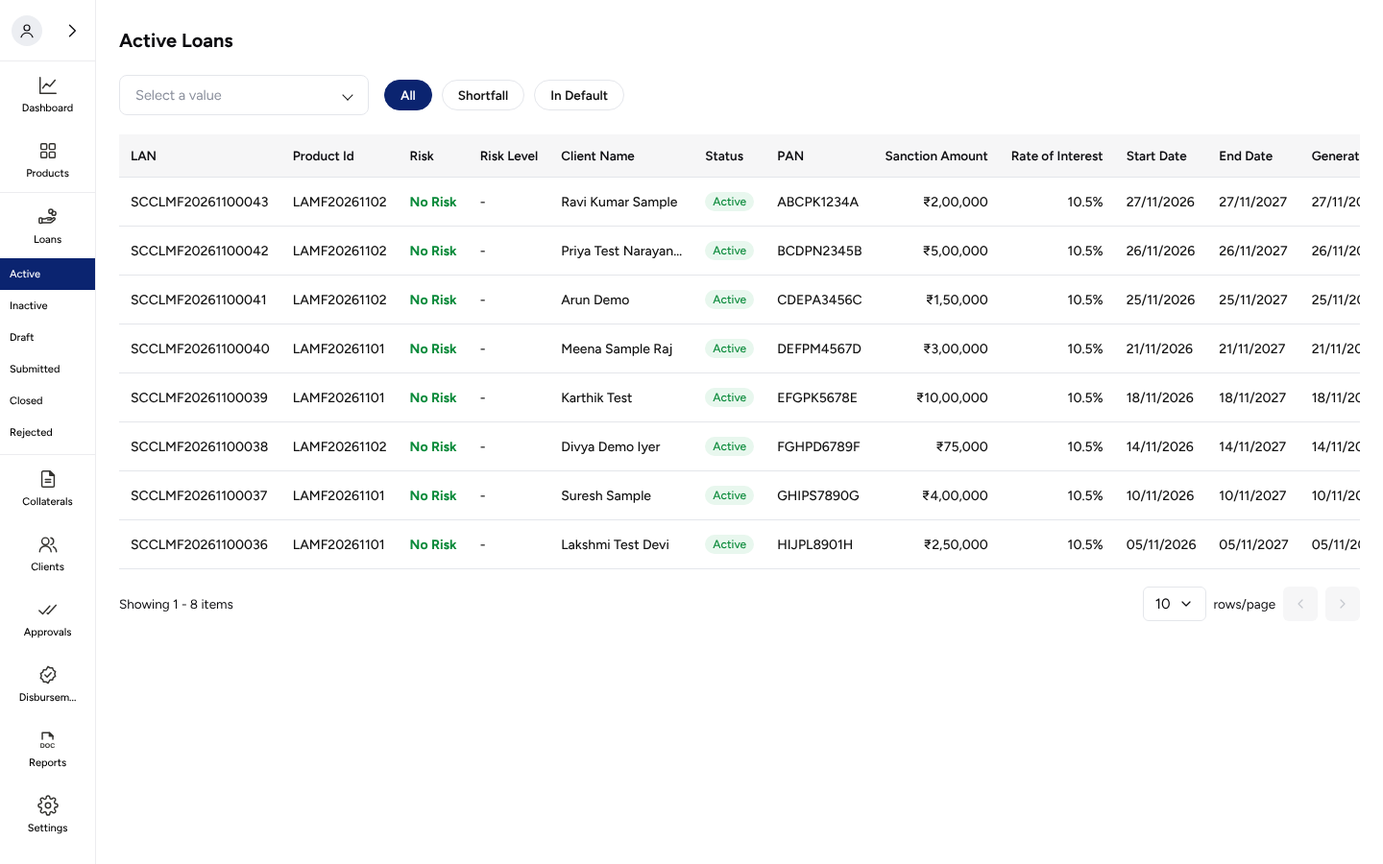
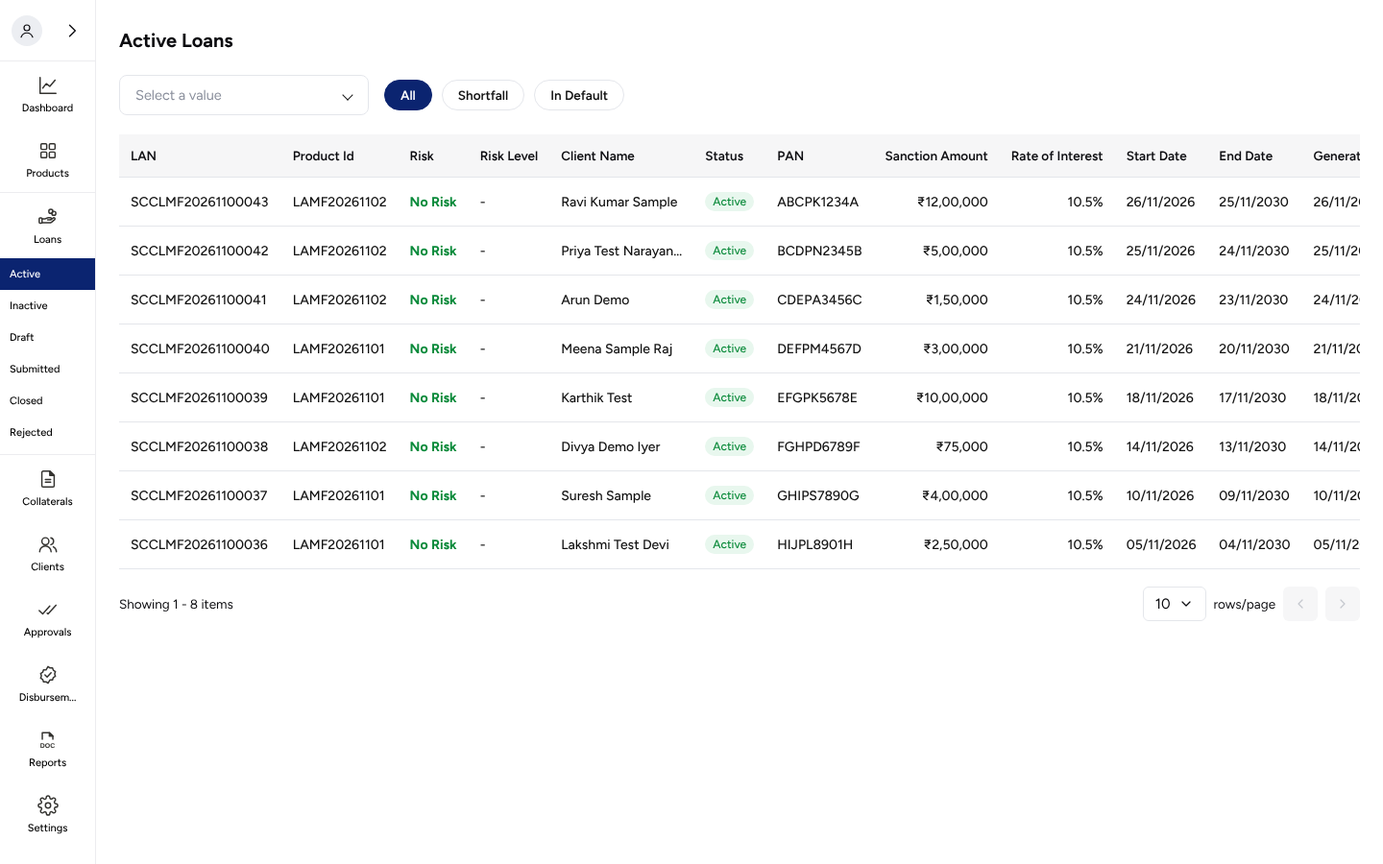
LMS: loan page (LAN Number, Overview, actions menu, fee tooltips) and LMS PRD Sl. No 18 (DISC-539)
Claude-Session: https://claude.ai/code/session_01FsVs5RNJ4JXhPDXV9bN1Kw

diff --git a/lamf-journey/LMS_PRD.html b/lamf-journey/LMS_PRD.html
@@ -13,7 +13,7 @@
   <a href="index.html" title="Home"><img src="assets/img/shriram-logo.png" alt="Shriram Credit"></a>
   <div>
     <h1>SCCL LAMF – LMS Product Requirements Document (PRD)</h1>
-    <p>Loan Management System &nbsp;·&nbsp; Last updated: 28-11-2026 18:31</p>
+    <p>Loan Management System &nbsp;·&nbsp; Last updated: 28-11-2026 18:34</p>
   </div>
   <a class="prd-link" href="lms-screens.html">All screens →</a>
 </header>
@@ -104,20 +104,29 @@
 <tr><td class="shot"><figure class="state"><img src="prd-assets/lms/l16-buttons.png" alt=""><figcaption>Reject / Approve</figcaption></figure><figure class="state"><img src="prd-assets/lms/l16-approved.png" alt=""><figcaption>After Approve → Yes</figcaption></figure></td><td><div class="spec"><p><b>Field Name:</b> Approve</p><p><b>Field Type:</b> CTA (Button)</p><p><b>Action:</b> Yes → the product becomes Active, the request leaves Approvals and Approvals shows “Approved successfully”.</p></div></td></tr>
 <tr><td class="shot"></td><td><div class="spec"><p><b>Field Name:</b> Reject</p><p><b>Field Type:</b> CTA (Button)</p><p><b>Action:</b> Same note check and confirmation. Result after Yes <a class="pend-ref" href="#LP-06" onclick="var t=document.getElementById('LP-06');if(t){t.scrollIntoView({behavior:'smooth',block:'center'});t.classList.remove('flash');void t.offsetWidth;t.classList.add('flash')}return false" title="Open pending clarification LP-06">Pending · LP-06</a></p></div></td></tr>
 </tbody></table>
-<h2>Module 6 – Loans</h2><p class="screens">Loans menu · Active loans (LSP filter, All / Shortfall / In Default)</p>
+<h2>Module 6 – Loans</h2><p class="screens">Loans menu · Active loans (LSP filter, All / Shortfall / In Default) · Loan page (Overview, ≡ actions)</p>
 <table><thead><tr><th style="width:52px">SL.No</th><th style="width:330px">Screenshot</th><th style="width:190px">Functionality</th><th>Description</th><th style="width:190px">Data Points Required</th><th style="width:120px">Status</th></tr></thead><tbody>
 <tr id="sl-17"><td rowspan="6" class="sl">17</td><td class="shot"><img src="prd-assets/lms/l17-active.png" alt=""></td><td rowspan="6">Ops user viewing the active loans</td><td><p>Menu Loans → Active. “Loans” itself cannot be clicked – only its sub-items Active, Inactive, Draft, Submitted, Closed and Rejected; the open sub-item is navy.</p><div class="spec"><p><b>Screen Content:</b></p><ul class="content-list"><li><b>Title:</b> “Active Loans”</li><li><b>Filter:</b> “Select a value” – All · Quicklend · Test · LARK · Liquify · SCCL LOS · Forward Wealth</li><li><b>Chips:</b> “All” · “Shortfall” · “In Default”</li><li><b>Columns:</b> “LAN” · “Product Id” · “Risk” · “Risk Level” · “Client Name” · “Status” · “PAN” · “Sanction Amount” · “Rate of Interest” · “Start Date” · “End Date” · “Generated” · “LSP”</li><li><b>Empty:</b> “No shortfall application” (Shortfall) · In Default text <a class="pend-ref" href="#LP-08" onclick="var t=document.getElementById('LP-08');if(t){t.scrollIntoView({behavior:'smooth',block:'center'});t.classList.remove('flash');void t.offsetWidth;t.classList.add('flash')}return false" title="Open pending clarification LP-08">Pending · LP-08</a></li><li><b>Pager:</b> “Showing 1 - N items” · “10 rows/page”</li></ul></div></td><td rowspan="6" class="dp"><b>LAN:</b> SCCLMF20261100043<br><b>Product Id:</b> LAMF20261102<br><b>Risk:</b> No Risk<br><b>Client Name:</b> (sample)<br><b>PAN:</b> (sample)<br><b>Sanction Amount:</b> ₹2,00,000<br><b>Rate of Interest:</b> 10.5%<br><b>Start / End Date:</b> DD/MM/YYYY<br><b>LSP:</b> SCCL LOS</td><td rowspan="6"><span class="tag wip">WIP</span></td></tr>
 <tr><td class="shot"><img src="prd-assets/lms/l17-menu.png" alt=""></td><td><div class="spec"><p><b>Field Name:</b> Loans menu</p><p><b>Field Type:</b> Menu group</p><p><b>Condition:</b> “Loans” is a heading only (not clickable); the six sub-items open their lists.</p></div></td></tr>
 <tr><td class="shot"><figure class="state"><img src="prd-assets/lms/l17-lsp.png" alt=""><figcaption>Closed</figcaption></figure><figure class="state"><img src="prd-assets/lms/l17-lsp-open.png" alt=""><figcaption>Open</figcaption></figure></td><td><div class="spec"><p><b>Field Name:</b> LSP</p><p><b>Field Type:</b> Drop-down</p><p><b>Prefilled Value:</b> “Select a value” (all loans)</p><p><b>Action:</b> All, Quicklend, Test, LARK, Liquify, SCCL LOS, Forward Wealth – lists only the loans of that LSP; All lists every loan.</p></div></td></tr>
 <tr><td class="shot"><figure class="state"><img src="prd-assets/lms/l17-chips.png" alt=""><figcaption>All</figcaption></figure><figure class="state"><img src="prd-assets/lms/l17-shortfall.png" alt=""><figcaption>Shortfall – no loans</figcaption></figure></td><td><div class="spec"><p><b>Field Name:</b> All / Shortfall / In Default</p><p><b>Field Type:</b> Chips</p><p><b>Prefilled Value:</b> All</p><p><b>Action:</b> All – every active loan; Shortfall – loans in shortfall (URL ?tab=1); In Default – loans in default (?tab=2). Nothing to show → icon and “No shortfall application”.</p></div></td></tr>
 <tr><td class="shot"><img src="prd-assets/lms/l17-head.png" alt=""></td><td><div class="spec"><p><b>Field Name:</b> Loans table</p><p><b>Field Type:</b> Table</p><p><b>Action:</b> Scrolls sideways. Risk “No Risk” in green bold; Status pill “Active”; a long Client Name ends with “…”.</p></div></td></tr>
-<tr><td class="shot"></td><td><div class="spec"><p><b>Field Name:</b> Loan row</p><p><b>Field Type:</b> Link (row)</p><p><b>Action:</b> Opens the loan page <a class="pend-ref" href="#LP-09" onclick="var t=document.getElementById('LP-09');if(t){t.scrollIntoView({behavior:'smooth',block:'center'});t.classList.remove('flash');void t.offsetWidth;t.classList.add('flash')}return false" title="Open pending clarification LP-09">Pending · LP-09</a></p></div></td></tr>
+<tr><td class="shot"></td><td><div class="spec"><p><b>Field Name:</b> Loan row</p><p><b>Field Type:</b> Link (row)</p><p><b>Action:</b> Opens the loan page (Sl. No 18).</p></div></td></tr>
+<tr id="sl-18"><td rowspan="9" class="sl">18</td><td class="shot"><img src="prd-assets/lms/l18-loan.png" alt=""></td><td rowspan="9">Ops user viewing one loan</td><td><p>Opened by clicking a loan in the list. The title row and the tabs stay at the top while the page scrolls. Only the Overview tab is described here; the other tabs and the ≡ actions are separate screens.</p><div class="spec"><p><b>Screen Content:</b></p><ul class="content-list"><li><b>Title:</b> “LAN Number: {LAN}” · “Active” pill · “No Risk” · “View status” · “Go to Simulator”</li><li><b>Tabs:</b> “Overview” · “Approvals” · “Disbursement & Repayments” · “Collateral” · “Transactions & Reports” · “KYC” · “Documents” · “Audit” · “Notes” · “Communication”</li><li><b>Loan Details:</b> “LSP” · “Sanctioned Amount” · “Drawing Power” · “Disbursed Amount” · “Repaid Amount” · “Principal Outstanding” · “Available for Disbursement” · “Utilized Drawing Power” · “Repayments” · “Deduction Date” · “Repayment Type” · “Disbursement Type” · “Rate of Interest” · “Processing Fee” · “Tenure” · “Product Name” · “Application Start Date” · “Application Submitted Date” · “Loan Start Date” · “Loan End Date”</li><li><b>Collection Details:</b> “Interest” · “Principal” · “Charges”, each “Collected:” · “Due:” · “Overdue:”</li><li><b>Client Details:</b> “Client Name” · “PAN” · “Email Id” · “Contact Number” · “Credit Score”</li><li><b>KFS Details:</b> “Renewal Charges” · “Bounce Charges” · “Penal Charges (P.A)” · “Liquidation Charges” · “Prepayment Charges/Foreclosure” · “Bank Mandate Swap Charges” · “Lien Marking Charges” · “Lien Removal Charges” · “Stamp Duty”</li><li><b>Tooltip:</b> “Fee: ₹{fee} | GST: ₹{GST}”</li><li><b>≡ menu:</b> “Disbursal” · “Repayment” · “Soft Freeze” · “Hard Freeze” · “Unfreeze” · “De-Pledge Assets” · “Liquidate Assets” · “Change ROI” · “Foreclose” · “Waive-off” · “Add Credit Note”</li></ul></div></td><td rowspan="9" class="dp"><b>LAN:</b> SCCLMF20261100043<br><b>LSP:</b> SCCL LOS<br><b>Sanctioned Amount:</b> ₹12,00,000<br><b>Processing Fee:</b> ₹11,328 (Fee ₹9,600 + GST ₹1,728)<br><b>Tenure:</b> 48 months<br><b>Rate of Interest:</b> 10.5%<br><b>Deduction Date:</b> 5th, Monthly<br><b>Dates:</b> DD/MM/YYYY<br><b>Client:</b> (sample)</td><td rowspan="9"><span class="tag wip">WIP</span></td></tr>
+<tr><td class="shot"><img src="prd-assets/lms/l18-head.png" alt=""></td><td><div class="spec"><p><b>Field Name:</b> Title row</p><p><b>Field Type:</b> Header</p><p><b>Action:</b> ← goes back to the loans list; “View status” and “Go to Simulator” are links <a class="pend-ref" href="#LP-10" onclick="var t=document.getElementById('LP-10');if(t){t.scrollIntoView({behavior:'smooth',block:'center'});t.classList.remove('flash');void t.offsetWidth;t.classList.add('flash')}return false" title="Open pending clarification LP-10">Pending · LP-10</a></p></div></td></tr>
+<tr><td class="shot"><img src="prd-assets/lms/l18-tabs.png" alt=""></td><td><div class="spec"><p><b>Field Name:</b> Tabs</p><p><b>Field Type:</b> Tabs</p><p><b>Prefilled Value:</b> Overview</p><p><b>Action:</b> Overview is open; the other tabs are separate screens (to be shared).</p></div></td></tr>
+<tr><td class="shot"><figure class="state"><img src="prd-assets/lms/l18-menu-closed.png" alt=""><figcaption>Closed</figcaption></figure><figure class="state"><img src="prd-assets/lms/l18-menu.png" alt=""><figcaption>Open</figcaption></figure></td><td><div class="spec"><p><b>Field Name:</b> ≡ Loan actions</p><p><b>Field Type:</b> Menu</p><p><b>Action:</b> Disbursal, Repayment, Soft Freeze, Hard Freeze, Unfreeze, De-Pledge Assets, Liquidate Assets, Change ROI, Foreclose, Waive-off, Add Credit Note – each opens its own flow.</p><p><b>Condition:</b> Unfreeze is grey (not clickable) while the loan is not frozen <a class="pend-ref" href="#LP-10" onclick="var t=document.getElementById('LP-10');if(t){t.scrollIntoView({behavior:'smooth',block:'center'});t.classList.remove('flash');void t.offsetWidth;t.classList.add('flash')}return false" title="Open pending clarification LP-10">Pending · LP-10</a></p></div></td></tr>
+<tr><td class="shot"><img src="prd-assets/lms/l18-loan-card.png" alt=""></td><td><div class="spec"><p><b>Field Name:</b> Loan Details</p><p><b>Field Type:</b> Card (read only)</p><p><b>Condition:</b> “Repayments: On time” and “Utilized Drawing Power” (with the warning-triangle level icon) in green; Product Name is a link to the product page (Sl. No 7).</p></div></td></tr>
+<tr><td class="shot"><figure class="state"><img src="prd-assets/lms/l18-pf.png" alt=""><figcaption>Processing Fee</figcaption></figure><figure class="state"><img src="prd-assets/lms/l18-tip.png" alt=""><figcaption>Hover on ⓘ</figcaption></figure></td><td><div class="spec"><p><b>Field Name:</b> ⓘ Fee / GST</p><p><b>Field Type:</b> Tooltip</p><p><b>Action:</b> Hover on ⓘ shows “Fee: ₹… | GST: ₹…” (GST 18%). Same on Renewal, Bounce, Bank Mandate Swap, Lien Marking, Lien Removal Charges and Stamp Duty.</p></div></td></tr>
+<tr><td class="shot"><img src="prd-assets/lms/l18-coll.png" alt=""></td><td><div class="spec"><p><b>Field Name:</b> Collection Details</p><p><b>Field Type:</b> Card (read only)</p><p><b>Action:</b> Collected / Due / Overdue for Interest, Principal and Charges.</p><p><b>Note:</b> Charges Collected shows a minus value in UAT <a class="pend-ref" href="#LP-10" onclick="var t=document.getElementById('LP-10');if(t){t.scrollIntoView({behavior:'smooth',block:'center'});t.classList.remove('flash');void t.offsetWidth;t.classList.add('flash')}return false" title="Open pending clarification LP-10">Pending · LP-10</a></p></div></td></tr>
+<tr><td class="shot"><img src="prd-assets/lms/l18-client.png" alt=""></td><td><div class="spec"><p><b>Field Name:</b> Client Details</p><p><b>Field Type:</b> Card (read only)</p><p><b>Action:</b> Client Name (capitals) is a link to the client page; Credit Score in green.</p></div></td></tr>
+<tr><td class="shot"><img src="prd-assets/lms/l18-kfs.png" alt=""></td><td><div class="spec"><p><b>Field Name:</b> KFS Details</p><p><b>Field Type:</b> Card (read only)</p><p><b>Action:</b> Charges of the product with GST; “-” when not applicable.</p></div></td></tr>
 </tbody></table>
 <h2>Integration Requirements<span class="info" tabindex="0" aria-label="How to read the columns" onclick="event.preventDefault()">i<span class="info-pop" role="tooltip"><b>How to read the columns</b><table><tr><th>ID</th><td>Reference number</td></tr><tr><th>Integration</th><td>Which system is affected</td></tr><tr><th>Purpose</th><td>Why</td></tr><tr><th>Trigger</th><td>When it happens</td></tr><tr><th>Input</th><td>Data used</td></tr><tr><th>Expected Output</th><td>What the other system shows</td></tr><tr><th>Success Behaviour</th><td>What the user sees</td></tr><tr><th>Failure Behaviour</th><td>If it fails</td></tr></table></span></span></h2><table class="int"><thead><tr><th>ID</th><th>Integration</th><th>Purpose</th><th>Trigger</th><th>Input</th><th>Expected Output</th><th>Success Behaviour</th><th>Failure Behaviour</th></tr></thead><tbody>
 <tr><td>INT-L01</td><td>LOS – Curated offers</td><td>Offer an LMS product to LOS customers</td><td>Product Active and “SCCL LOS” switched on in Update Product Access Policy (Sl. No 7)</td><td>Product terms (rate, tenure, PF)</td><td>An offer card for the product on the Curated offers page (Interest Rate = minimum rate, Tenure = its tenure)</td><td>The customer can start an application on that product</td><td><a class="pend-ref" href="#LP-07" onclick="var t=document.getElementById('LP-07');if(t){t.scrollIntoView({behavior:'smooth',block:'center'});t.classList.remove('flash');void t.offsetWidth;t.classList.add('flash')}return false" title="Open pending clarification LP-07">Pending · LP-07</a></td></tr>
 <tr><td>INT-L02</td><td>LOS – Application summary</td><td>Apply the product rules to the application</td><td>Customer starts the application from that offer</td><td>Tenure (Range / Discrete), Repayment Type, Disbursement Type</td><td>Tenure drop-down with every month min–max (Range) or the set months (Discrete); Repayment Type drop-down when both types are allowed; Revolving shown as “Line of Credit”</td><td>Customer picks tenure / repayment type</td><td><a class="pend-ref" href="#LP-07" onclick="var t=document.getElementById('LP-07');if(t){t.scrollIntoView({behavior:'smooth',block:'center'});t.classList.remove('flash');void t.offsetWidth;t.classList.add('flash')}return false" title="Open pending clarification LP-07">Pending · LP-07</a></td></tr>
 </tbody></table>
-<h2>Pending Clarifications<span class="count wip">9</span></h2><table class="int"><thead><tr><th style="width:70px">ID</th><th style="width:110px">Module</th><th>Clarification Required</th></tr></thead><tbody>
+<h2>Pending Clarifications<span class="count wip">10</span></h2><table class="int"><thead><tr><th style="width:70px">ID</th><th style="width:110px">Module</th><th>Clarification Required</th></tr></thead><tbody>
 <tr id="LP-01"><td>LP-01</td><td>Module 1</td><td>Sl. No 1 – exact message when an SCCL mail ID that is not an LMS user tries to log in (prototype: “This email ID does not have access to the LMS.”).</td></tr>
 <tr id="LP-02"><td>LP-02</td><td>Module 1</td><td>Sl. No 2 – Resend OTP: timer length, number of resends, OTP validity and wrong-OTP limit.</td></tr>
 <tr id="LP-03"><td>LP-03</td><td>Module 4</td><td>Sl. No 10 – wording of “Maximum … is missing” and “Tenure is missing”; message when MIN is more than MAX.</td></tr>
@@ -126,7 +135,8 @@
 <tr id="LP-06"><td>LP-06</td><td>Module 5</td><td>Sl. No 16 – Reject: message after Yes and the product status after rejection.</td></tr>
 <tr id="LP-07"><td>LP-07</td><td>LOS</td><td>INT-L01 / L02 – default tenure on the LOS Application summary (prototype: the maximum); Credit Limit and Processing Fee on the LMS product’s offer card.</td></tr>
 <tr id="LP-08"><td>LP-08</td><td>Module 6</td><td>Sl. No 17 – empty text of the In Default chip (prototype: “No in default application”); Risk Level values; what “Generated” shows.</td></tr>
-<tr id="LP-09"><td>LP-09</td><td>Module 6</td><td>Sl. No 17 – the loan page opened from a row (screenshot to be shared; prototype: Work in progress).</td></tr>
+<tr id="LP-09"><td>LP-09</td><td>Module 6</td><td>Sl. No 18 – the other loan tabs (Approvals … Communication) and each ≡ action flow – screenshots to be shared.</td></tr>
+<tr id="LP-10"><td>LP-10</td><td>Module 6</td><td>Sl. No 18 – what View status and Go to Simulator open; when Unfreeze is enabled; why Charges “Collected” shows a minus value (₹-11,328) and Due is twice the processing fee; Drawing Power decimals (₹12,00,003.0765 in UAT).</td></tr>
 </tbody></table>
 <details class="done"><summary><span class="done-title">Completed Clarifications<span class="count ok">0</span></span><span class="chev" aria-hidden="true"></span></summary><table class="int"><tbody><tr><td>None yet.</td></tr></tbody></table></details>
 <h2>Pending Changes<span class="count impl">0</span></h2><table class="int"><tbody><tr><td>Nothing pending.</td></tr></tbody></table>

diff --git a/lamf-journey/lms-app/loan-view.html b/lamf-journey/lms-app/loan-view.html
@@ -1,0 +1,110 @@
+<!doctype html>
+<html lang="en">
+<head>
+<script src="../assets/access.js?v=2" data-m="lms"></script>
+<meta charset="utf-8">
+<meta name="viewport" content="width=device-width, initial-scale=1">
+<title>LMS – Loan details</title>
+<!-- DISC-539: LMS prototype – loan page (LAN Number …): Overview tab, ≡ actions menu, fee tooltips; from the owner's UAT screenshots. Sample data only. Source file. -->
+<link rel="preconnect" href="https://fonts.googleapis.com">
+<link rel="preconnect" href="https://fonts.gstatic.com" crossorigin>
+<link href="https://fonts.googleapis.com/css2?family=Figtree:wght@400;500;600;700;800;900&display=swap" rel="stylesheet">
+<link rel="stylesheet" href="lms.css?v=9">
+<link rel="stylesheet" href="app.css?v=40">
+</head>
+<body class="app">
+<aside class="sb" id="sb">
+  <div class="sb-top"><img class="sb-logo" src="../assets/img/shriram-logo.png" alt="Shriram Credit">
+    <button type="button" class="sb-av" id="sb-av" title="Profile" aria-haspopup="true" aria-expanded="false"><svg viewBox="0 0 24 24"><circle cx="12" cy="8" r="4"/><path d="M4 21c1.5-4 4.5-6 8-6s6.5 2 8 6"/></svg></button>
+    <button type="button" class="sb-x" id="sb-x" aria-label="Expand menu"><svg viewBox="0 0 24 24"><path d="M9 5l7 7-7 7"/></svg></button></div>
+  <div class="pf" id="pf" hidden>
+    <div class="pf-n" id="pf-n">Azhagarsamy S</div><div class="pf-m" id="pf-m">azhagarsamy.s@shriramcredit.in</div>
+    <button type="button" class="pf-out" id="pf-out">Logout <svg viewBox="0 0 24 24"><path d="M9 4H6a2 2 0 0 0-2 2v12a2 2 0 0 0 2 2h3"/><path d="M10 12h10M16 8l4 4-4 4"/></svg></button>
+  </div>
+  <nav class="sb-nav">
+    <a class="sb-i" href="dashboard.html"><svg viewBox="0 0 24 24"><path d="M3 3v18h18"/><path d="M6 15l4-5 4 3 6-7"/></svg><span>Dashboard</span></a>
+    <a class="sb-i" href="products.html"><svg viewBox="0 0 24 24"><rect x="4" y="4" width="6.5" height="6.5" rx="1.2"/><rect x="13.5" y="4" width="6.5" height="6.5" rx="1.2"/><rect x="4" y="13.5" width="6.5" height="6.5" rx="1.2"/><rect x="13.5" y="13.5" width="6.5" height="6.5" rx="1.2"/></svg><span>Products</span></a>
+    <div class="sb-grp">
+      <span class="sb-i sb-p"><svg viewBox="0 0 24 24"><rect x="2" y="13" width="3.2" height="6" rx="1"/><path d="M5.2 14.2h3.3c1.3 0 2.2-1.4 3.8-1.4h2.4a1.2 1.2 0 0 1 0 2.4h-3.2"/><path d="M5.2 18.6h8.6c.9 0 1.6-.3 2.3-.8l3.6-3a1.2 1.2 0 0 0-1.5-1.8l-3 2.1"/><circle cx="15.2" cy="5.6" r="2.3"/><circle cx="18.6" cy="7.9" r="2.3"/></svg><span>Loans</span></span>
+      <a class="sb-s on" href="loans-active.html" aria-current="page">Active</a><a class="sb-s" href="#" data-todo="Loans – Inactive">Inactive</a>
+      <a class="sb-s" href="#" data-todo="Loans – Draft">Draft</a><a class="sb-s" href="#" data-todo="Loans – Submitted">Submitted</a>
+      <a class="sb-s" href="#" data-todo="Loans – Closed">Closed</a><a class="sb-s" href="#" data-todo="Loans – Rejected">Rejected</a>
+    </div>
+    <a class="sb-i" href="#" data-todo="Collaterals"><svg viewBox="0 0 24 24"><path d="M14 3H6.5A1.5 1.5 0 0 0 5 4.5v15A1.5 1.5 0 0 0 6.5 21h11a1.5 1.5 0 0 0 1.5-1.5V8z"/><path d="M14 3v5h5z" fill="currentColor"/><path d="M9 12.5h6M9 15.5h6"/></svg><span>Collaterals</span></a>
+    <a class="sb-i" href="#" data-todo="Clients"><svg viewBox="0 0 24 24"><circle cx="9" cy="8.5" r="4"/><path d="M2.5 20.5a6.5 6.5 0 0 1 13 0"/><path d="M15.2 4.6a4 4 0 0 1 0 7.8"/><path d="M18 14.8a6.5 6.5 0 0 1 3.5 5.7"/></svg><span>Clients</span></a>
+    <a class="sb-i" href="approvals.html"><svg viewBox="0 0 24 24"><path d="M2 13l4 4 8-9M11 16l1 1 9-10"/></svg><span>Approvals</span></a>
+    <a class="sb-i" href="#" data-todo="Disbursement Management"><svg viewBox="0 0 24 24"><path d="M12 2.5l2.3 1.7 2.8-.2.9 2.7 2.4 1.5-.9 2.7.9 2.7-2.4 1.5-.9 2.7-2.8-.2L12 21.5l-2.3-1.7-2.8.2-.9-2.7-2.4-1.5.9-2.7-.9-2.7 2.4-1.5.9-2.7 2.8.2z"/><path d="M8.5 12l2.5 2.5 4.5-5"/></svg><span data-long="Disbursement Management">Disbursem...</span></a>
+    <a class="sb-i" href="#" data-todo="Reports"><svg viewBox="0 0 24 24"><path d="M5.5 11V3.5h8l4 4V11"/><path d="M13.5 3.5v4h4z" fill="currentColor"/><text x="11.5" y="21" text-anchor="middle" font-size="7.6" font-weight="700" stroke="none" fill="currentColor" font-family="Arial">DOC</text></svg><span>Reports</span></a>
+    <a class="sb-i" href="#" data-todo="Settings"><svg viewBox="0 0 24 24"><circle cx="12" cy="12" r="3"/><path d="M19.4 15a1.7 1.7 0 0 0 .3 1.8l.1.1a2 2 0 1 1-2.8 2.8l-.1-.1a1.7 1.7 0 0 0-1.8-.3 1.7 1.7 0 0 0-1 1.5V21a2 2 0 1 1-4 0v-.1a1.7 1.7 0 0 0-1.1-1.5 1.7 1.7 0 0 0-1.8.3l-.1.1a2 2 0 1 1-2.8-2.8l.1-.1a1.7 1.7 0 0 0 .3-1.8 1.7 1.7 0 0 0-1.5-1H3a2 2 0 1 1 0-4h.1a1.7 1.7 0 0 0 1.5-1.1 1.7 1.7 0 0 0-.3-1.8l-.1-.1a2 2 0 1 1 2.8-2.8l.1.1a1.7 1.7 0 0 0 1.8.3H9a1.7 1.7 0 0 0 1-1.5V3a2 2 0 1 1 4 0v.1a1.7 1.7 0 0 0 1 1.5 1.7 1.7 0 0 0 1.8-.3l.1-.1a2 2 0 1 1 2.8 2.8l-.1.1a1.7 1.7 0 0 0-.3 1.8V9a1.7 1.7 0 0 0 1.5 1H21a2 2 0 1 1 0 4h-.1a1.7 1.7 0 0 0-1.5 1z"/></svg><span>Settings</span></a>
+  </nav>
+</aside>
+
+<div class="mn">
+  <main class="pg lv">
+    <div class="lv-top">
+      <div class="lv-h">
+        <a class="lv-back" href="loans-active.html" aria-label="Back"><svg viewBox="0 0 24 24"><path d="M20 12H4M10 6l-6 6 6 6"/></svg></a>
+        <h1>LAN Number: <span id="lv-lan"></span></h1><span class="pill p-active">Active</span><span class="lv-rk">No Risk</span>
+        <a class="lv-lk" href="#" data-todo="Loan – View status">View status</a>
+        <span class="lv-sp"></span>
+        <a class="lv-lk" href="#" data-todo="Loan – Go to Simulator">Go to Simulator</a>
+        <div class="pv-mw"><button type="button" class="pv-menu" id="lv-menu" aria-label="Loan actions" aria-haspopup="true" aria-expanded="false"><svg viewBox="0 0 24 24"><path d="M4 6h16M4 12h16M4 18h16"/></svg></button>
+          <div class="pv-dd lv-dd" id="lv-dd" hidden></div></div>
+      </div>
+      <div class="pv-tabs lv-tabs" role="tablist" id="lv-tabs"></div>
+    </div>
+    <section class="pv-c"><h2>Loan Details</h2><div class="lv-g" id="lv-loan"></div></section>
+    <section class="pv-c"><h2>Collection Details</h2><div class="lv-g" id="lv-coll"></div></section>
+    <section class="pv-c"><h2>Client Details</h2><div class="lv-g" id="lv-cli"></div></section>
+    <section class="pv-c"><h2>KFS Details</h2><div class="lv-g" id="lv-kfs"></div></section>
+    <div class="lv-tip" id="lv-tip" role="tooltip" hidden></div>
+  </main>
+</div>
+<script src="loan-data.js?v=1"></script>
+<script>
+(function () {   // DISC-539: loan page – Overview only; other tabs, ≡ actions, View status and Go to Simulator open Work in progress
+  var $ = function (id) { return document.getElementById(id); }, inr = LMS_LOAN.inr;
+  var lan = new URLSearchParams(location.search).get('lan') || 'SCCLMF20261100043', d = LMS_LOAN.find(lan) || LMS_LOAN.all()[0];
+  var esc = function (t) { return String(t).replace(/[&<>"]/g, function (c) { return { '&': '&amp;', '<': '&lt;', '>': '&gt;', '"': '&quot;' }[c]; }); };
+  var wip = function (p) { return 'wip.html?p=' + encodeURIComponent(p); };
+  document.title = 'LMS – ' + d.lan; $('lv-lan').textContent = d.lan;
+  var INFO = '<button type="button" class="lv-i" aria-label="Fee and GST" data-tip="TIP"><svg viewBox="0 0 24 24"><circle cx="12" cy="12" r="9"/><path d="M12 11v6"/><circle cx="12" cy="7.6" r=".6" fill="currentColor"/></svg></button>';
+  var fg = function (fee) { var g = Math.round(fee * 18) / 100, dec = g % 1 !== 0; return { v: inr(fee + g, dec), t: 'Fee: ' + inr(fee) + ' | GST: ' + inr(g, dec) }; };
+  var tipd = function (o) { return esc(o.v) + ' ' + INFO.replace('TIP', esc(o.t)); };
+  var cell = function (l, v, cls) { return '<div><span>' + l + '</span><b' + (cls ? ' class="' + cls + '"' : '') + '>' + v + '</b></div>'; };
+  var TABS = ['Overview', 'Approvals', 'Disbursement & Repayments', 'Collateral', 'Transactions & Reports', 'KYC', 'Documents', 'Audit', 'Notes', 'Communication'];
+  $('lv-tabs').innerHTML = TABS.map(function (t, i) { return '<button type="button" role="tab"' + (i ? '' : ' class="on" aria-selected="true"') + ' data-t="' + t + '">' + esc(t) + '</button>'; }).join('');
+  [].forEach.call($('lv-tabs').children, function (b, i) { if (i) b.addEventListener('click', function () { location.href = wip('Loan – ' + b.dataset.t); }); });
+  var ACTS = ['Disbursal', 'Repayment', 'Soft Freeze', 'Hard Freeze', 'Unfreeze', 'De-Pledge Assets', 'Liquidate Assets', 'Change ROI', 'Foreclose', 'Waive-off', 'Add Credit Note'];
+  $('lv-dd').innerHTML = ACTS.map(function (a) { return '<button type="button"' + (a === 'Unfreeze' ? ' disabled' : '') + ' data-a="' + a + '">' + a + '</button>'; }).join('');
+  [].forEach.call($('lv-dd').children, function (b) { b.addEventListener('click', function () { location.href = wip('Loan – ' + b.dataset.a); }); });
+  var mb = $('lv-menu'), dd = $('lv-dd'), menu = function (on) { dd.hidden = !on; mb.classList.toggle('open', on); mb.setAttribute('aria-expanded', on); };
+  mb.addEventListener('click', function (e) { e.stopPropagation(); menu(dd.hidden); });
+  document.addEventListener('click', function (e) { if (!dd.contains(e.target)) menu(false); });
+  var pf = { v: inr(d.pf), t: 'Fee: ' + inr(d.fee) + ' | GST: ' + inr(d.gst) };
+  $('lv-loan').innerHTML = cell('LSP', esc(d.lsp)) + cell('Sanctioned Amount', inr(d.sanction)) + cell('Drawing Power', inr(d.sanction)) + cell('Disbursed Amount', inr(0)) +
+    cell('Repaid Amount', inr(0)) + cell('Principal Outstanding', inr(0)) + cell('Available for Disbursement', inr(d.sanction)) +
+    cell('Utilized Drawing Power', '0% <svg class="lv-warn" viewBox="0 0 24 24" aria-label="Utilisation level"><path d="M12 3L2 21h20z"/><path d="M12 10v5M12 17.6v.4" stroke="#fff" stroke-width="2.2" stroke-linecap="round"/></svg>', 'g') +
+    cell('Repayments', 'On time', 'g') + cell('Deduction Date', '5th, Monthly') + cell('Repayment Type', 'Interest Only') + cell('Disbursement Type', 'Revolving') +
+    cell('Rate of Interest', d.roi) + cell('Processing Fee', tipd(pf)) + cell('Tenure', d.tenure + ' months') +
+    cell('Product Name', '<a class="lv-a" href="product-view.html?code=' + encodeURIComponent(d.product) + '">' + esc(d.productName) + '</a>') +
+    cell('Application Start Date', d.start) + cell('Application Submitted Date', d.start) + cell('Loan Start Date', d.start) + cell('Loan End Date', d.end);
+  var cc = function (l, c, du) { return '<div><span>' + l + '</span><b class="lv-ln">Collected: ' + c + '</b><b class="lv-ln">Due: ' + du + '</b><b class="lv-ln">Overdue: ' + inr(0) + '</b></div>'; };
+  $('lv-coll').innerHTML = cc('Interest', inr(0), inr(0)) + cc('Principal', inr(0), inr(0)) + cc('Charges', inr(-d.pf), inr(2 * d.pf));   // as the live LMS shows it (LP-10)
+  $('lv-cli').innerHTML = cell('Client Name', '<a class="lv-a" href="' + wip('Clients – ' + d.client) + '">' + esc(d.client.toUpperCase()) + '</a>') + cell('PAN', d.pan) +
+    cell('Email Id', esc(d.mail)) + cell('Contact Number', d.phone) + cell('Credit Score', d.score, 'g');
+  $('lv-kfs').innerHTML = cell('Renewal Charges', tipd(fg(999))) + cell('Bounce Charges', tipd(fg(100))) + cell('Penal Charges (P.A)', '36%') + cell('Liquidation Charges', '-') +
+    cell('Prepayment Charges/Foreclosure', '-') + cell('Bank Mandate Swap Charges', tipd(fg(250))) + cell('Lien Marking Charges', tipd(fg(450))) + cell('Lien Removal Charges', tipd(fg(100))) +
+    cell('Stamp Duty', tipd(fg(200)));
+  // (i) → tooltip "Fee: ₹… | GST: ₹…" under the icon, on hover or click
+  var tip = $('lv-tip');
+  function show(b) { var r = b.getBoundingClientRect(); tip.textContent = b.dataset.tip; tip.hidden = false; tip.style.left = (r.left + window.scrollX - 10) + 'px'; tip.style.top = (r.bottom + window.scrollY + 8) + 'px'; }
+  [].forEach.call(document.querySelectorAll('.lv-i'), function (b) {
+    b.addEventListener('mouseenter', function () { show(b); }); b.addEventListener('mouseleave', function () { tip.hidden = true; });
+    b.addEventListener('focus', function () { show(b); }); b.addEventListener('blur', function () { tip.hidden = true; });
+  });
+})();
+</script>
+<script src="shell.js?v=2"></script>
+</body>
+</html>

diff --git a/lamf-journey/lms-app/loans-active.html b/lamf-journey/lms-app/loans-active.html
@@ -10,7 +10,7 @@
 <link rel="preconnect" href="https://fonts.gstatic.com" crossorigin>
 <link href="https://fonts.googleapis.com/css2?family=Figtree:wght@400;500;600;700;800;900&display=swap" rel="stylesheet">
 <link rel="stylesheet" href="lms.css?v=9">
-<link rel="stylesheet" href="app.css?v=39">
+<link rel="stylesheet" href="app.css?v=40">
 </head>
 <body class="app">
 <aside class="sb" id="sb">
@@ -57,20 +57,12 @@
   </main>
 </div>
 <script src="shell.js?v=2"></script>
+<script src="loan-data.js?v=1"></script>
 <script>
-(function () {   // DISC-538: Active loans – sample loans only (no real customer names or PANs); a loan row opens the Work in progress page until the loan page is built
+(function () {   // DISC-538: Active loans – sample loans only (no real customer names or PANs); DISC-539 a loan row opens the loan page
   var $ = function (id) { return document.getElementById(id); };
   var LSPS = ['All', 'Quicklend', 'Test', 'LARK', 'Liquify', 'SCCL LOS', 'Forward Wealth'];
-  var L = [   // LAN, product, client, PAN, sanction, ROI, start, end, generated, LSP
-    ['SCCLMF20261100043', 'LAMF20261102', 'Ravi Kumar Sample', 'ABCPK1234A', '₹2,00,000', '10.5%', '27/11/2026', '27/11/2027', '27/11/2026', 'SCCL LOS'],
-    ['SCCLMF20261100042', 'LAMF20261102', 'Priya Test Narayanan', 'BCDPN2345B', '₹5,00,000', '10.5%', '26/11/2026', '26/11/2027', '26/11/2026', 'SCCL LOS'],
-    ['SCCLMF20261100041', 'LAMF20261102', 'Arun Demo', 'CDEPA3456C', '₹1,50,000', '10.5%', '25/11/2026', '25/11/2027', '25/11/2026', 'Quicklend'],
-    ['SCCLMF20261100040', 'LAMF20261101', 'Meena Sample Raj', 'DEFPM4567D', '₹3,00,000', '10.5%', '21/11/2026', '21/11/2027', '21/11/2026', 'LARK'],
-    ['SCCLMF20261100039', 'LAMF20261101', 'Karthik Test', 'EFGPK5678E', '₹10,00,000', '10.5%', '18/11/2026', '18/11/2027', '18/11/2026', 'Liquify'],
-    ['SCCLMF20261100038', 'LAMF20261102', 'Divya Demo Iyer', 'FGHPD6789F', '₹75,000', '10.5%', '14/11/2026', '14/11/2027', '14/11/2026', 'SCCL LOS'],
-    ['SCCLMF20261100037', 'LAMF20261101', 'Suresh Sample', 'GHIPS7890G', '₹4,00,000', '10.5%', '10/11/2026', '10/11/2027', '10/11/2026', 'Forward Wealth'],
-    ['SCCLMF20261100036', 'LAMF20261101', 'Lakshmi Test Devi', 'HIJPL8901H', '₹2,50,000', '10.5%', '05/11/2026', '05/11/2027', '05/11/2026', 'Test']
-  ];
+  var L = LMS_LOAN.all(), inr = LMS_LOAN.inr;   // DISC-539: sample loans shared with the loan page (loan-data.js)
   var EMPTY = ['', 'No shortfall application', 'No in default application'];   // the In Default text is assumed (LP-08)
   var q = new URLSearchParams(location.search), tab = /^[012]$/.test(q.get('tab')) ? +q.get('tab') : 0, lsp = '';
   var sel = $('ln-lsp'), sb = $('ln-lsp-b'), ul = sel.querySelector('.sel-l');
@@ -88,15 +80,15 @@
   }); });
   function draw() {
     [].forEach.call(document.querySelectorAll('.ln-chips button'), function (b) { var on = +b.dataset.t === tab; b.classList.toggle('on', on); b.setAttribute('aria-selected', on); });
-    var rows = tab ? [] : L.filter(function (r) { return !lsp || r[9] === lsp; });   // the sample loans have no shortfall and none is in default
+    var rows = tab ? [] : L.filter(function (r) { return !lsp || r.lsp === lsp; });   // the sample loans have no shortfall and none is in default
     $('ln-rows').innerHTML = rows.map(function (r) {
-      return '<tr data-lan="' + r[0] + '"><td>' + r[0] + '</td><td>' + r[1] + '</td><td><span class="rk-no">No Risk</span></td><td>-</td><td class="nm" title="' + r[2] + '">' + r[2] +
-        '</td><td><span class="pill p-active">Active</span></td><td>' + r[3] + '</td><td class="r">' + r[4] + '</td><td class="r">' + r[5] + '</td><td>' + r[6] + '</td><td>' + r[7] + '</td><td>' + r[8] + '</td><td>' + r[9] + '</td></tr>';
+      return '<tr data-lan="' + r.lan + '"><td>' + r.lan + '</td><td>' + r.product + '</td><td><span class="rk-no">No Risk</span></td><td>-</td><td class="nm" title="' + r.client + '">' + r.client +
+        '</td><td><span class="pill p-active">Active</span></td><td>' + r.pan + '</td><td class="r">' + inr(r.sanction) + '</td><td class="r">' + r.roi + '</td><td>' + r.start + '</td><td>' + r.end + '</td><td>' + r.start + '</td><td>' + r.lsp + '</td></tr>';
     }).join('');
     $('ln-wrap').hidden = $('ln-pg').hidden = !rows.length; $('ln-empty').hidden = !!rows.length;
     $('ln-empty-t').textContent = tab ? EMPTY[tab] : 'No active loans';
     $('ln-show').textContent = 'Showing 1 - ' + rows.length + ' items';
-    [].forEach.call($('ln-rows').rows, function (tr) { tr.addEventListener('click', function () { location.href = 'wip.html?p=' + encodeURIComponent('Loans – Active – ' + tr.dataset.lan); }); });
+    [].forEach.call($('ln-rows').rows, function (tr) { tr.addEventListener('click', function () { location.href = 'loan-view.html?lan=' + encodeURIComponent(tr.dataset.lan); }); });
   }
   draw();
 })();

diff --git a/lamf-journey/lms-app/loan-data.js b/lamf-journey/lms-app/loan-data.js
@@ -1,0 +1,33 @@
+/* LMS prototype – sample loans for Loans → Active and the loan page (DISC-538, DISC-539). SAMPLE data only:
+   no real customer names, PANs, mail IDs or phone numbers. Source file. */
+window.LMS_LOAN = (function () {
+  var PROD = { LAMF20261102: 'LAMF_UAT_SCCL_LOC', LAMF20261101: 'LAMF_UAT_NOV_2026_SCCL_MULTIPLE' };
+  // LAN, product, client, PAN, sanction, start (DD/MM/YYYY), LSP, credit score
+  var L = [
+    ['SCCLMF20261100043', 'LAMF20261102', 'Ravi Kumar Sample', 'ABCPK1234A', 1200000, '26/11/2026', 'SCCL LOS', 767],
+    ['SCCLMF20261100042', 'LAMF20261102', 'Priya Test Narayanan', 'BCDPN2345B', 500000, '25/11/2026', 'SCCL LOS', 781],
+    ['SCCLMF20261100041', 'LAMF20261102', 'Arun Demo', 'CDEPA3456C', 150000, '24/11/2026', 'Quicklend', 742],
+    ['SCCLMF20261100040', 'LAMF20261101', 'Meena Sample Raj', 'DEFPM4567D', 300000, '21/11/2026', 'LARK', 803],
+    ['SCCLMF20261100039', 'LAMF20261101', 'Karthik Test', 'EFGPK5678E', 1000000, '18/11/2026', 'Liquify', 755],
+    ['SCCLMF20261100038', 'LAMF20261102', 'Divya Demo Iyer', 'FGHPD6789F', 75000, '14/11/2026', 'SCCL LOS', 790],
+    ['SCCLMF20261100037', 'LAMF20261101', 'Suresh Sample', 'GHIPS7890G', 400000, '10/11/2026', 'Forward Wealth', 736],
+    ['SCCLMF20261100036', 'LAMF20261101', 'Lakshmi Test Devi', 'HIJPL8901H', 250000, '05/11/2026', 'Test', 812]
+  ];
+  function inr(n, dec) {   // Indian grouping: ₹12,00,000 / ₹1,178.82
+    var neg = n < 0, x = Math.abs(n), s = dec ? x.toFixed(2) : String(Math.round(x)), p = s.split('.'), i = p[0], last = i.slice(-3), rest = i.slice(0, -3);
+    if (rest) last = rest.replace(/\B(?=(\d{2})+(?!\d))/g, ',') + ',' + last;
+    return '₹' + (neg ? '-' : '') + last + (p[1] ? '.' + p[1] : '');
+  }
+  function endDate(d, months) {   // start + tenure, minus one day
+    var a = d.split('/'), t = new Date(+a[2], +a[1] - 1 + months, +a[0] - 1), z = function (v) { return (v < 10 ? '0' : '') + v; };
+    return z(t.getDate()) + '/' + z(t.getMonth() + 1) + '/' + t.getFullYear();
+  }
+  var TENURE = 48;
+  function get(r) {
+    var fee = Math.round(r[4] * 0.008), gst = Math.round(fee * 0.18), first = r[2].split(' ')[0].toLowerCase();
+    return { lan: r[0], product: r[1], productName: PROD[r[1]] || r[1], client: r[2], pan: r[3], sanction: r[4], start: r[5], lsp: r[6], score: r[7],
+      end: endDate(r[5], TENURE), tenure: TENURE, roi: '10.5%', fee: fee, gst: gst, pf: fee + gst,
+      mail: first + '.sample@example.com', phone: '+9198765' + r[0].slice(-5) };
+  }
+  return { inr: inr, all: function () { return L.map(get); }, find: function (lan) { for (var i = 0; i < L.length; i++) if (L[i][0] === lan) return get(L[i]); return null; } };
+})();

diff --git a/lamf-journey/lms-screens.html b/lamf-journey/lms-screens.html
@@ -7,7 +7,7 @@
 <title>LAMF LMS – Screens</title>
 <link rel="stylesheet" href="assets/lamf.css">
 </head>
-<body class="page-screens"><a class="logo" href="index.html" title="Home"><img src="assets/img/shriram-logo.png" alt="Shriram Credit"></a><h1>LAMF LMS – Screens</h1><p>11 screens, in order. The LMS prototype is rebuilt screen by screen from the live LMS (sample data only).</p><ol><li><a href="lms-app/login.html">01) Login</a></li>
+<body class="page-screens"><a class="logo" href="index.html" title="Home"><img src="assets/img/shriram-logo.png" alt="Shriram Credit"></a><h1>LAMF LMS – Screens</h1><p>12 screens, in order. The LMS prototype is rebuilt screen by screen from the live LMS (sample data only).</p><ol><li><a href="lms-app/login.html">01) Login</a></li>
 <li><a href="lms-app/otp.html?mail=abc%40shriramcredit.in">02) Login – OTP</a></li>
 <li><a href="lms-app/mail-otp.html?mail=abc%40shriramcredit.in">03) OTP mail – Email Verification OTP</a></li>
 <li><a href="lms-app/dashboard.html">04) Dashboard</a></li>
@@ -17,7 +17,8 @@
 <li><a href="lms-app/product-view.html?code=LAMF20261101">08) Product details – Inactive</a></li>
 <li><a href="lms-app/product-view.html?code=LAMF20261001">09) Product details – In Review (Reject / Approve)</a></li>
 <li><a href="lms-app/approvals.html">10) Approvals – My Pending Approvals / All Approvals</a></li>
-<li><a href="lms-app/loans-active.html">11) Loans – Active (LSP filter, All / Shortfall / In Default)</a></li></ol><p class="lms-old">Earlier LMS prototype (Loans lists, LAN page, Waiver flows): <a href="lms.html">open lms.html</a>.</p><p class="lms-lockbar"><button type="button" onclick="LAMF_ACCESS.logout();location.replace('index.html')">🔒 Sign out</button> Signs you out of the site in this tab – the mail ID and secret code are asked again (DISC-529).</p>
+<li><a href="lms-app/loans-active.html">11) Loans – Active (LSP filter, All / Shortfall / In Default)</a></li>
+<li><a href="lms-app/loan-view.html?lan=SCCLMF20261100043">12) Loan page – Overview (≡ loan actions, fee tooltips)</a></li></ol><p class="lms-old">Earlier LMS prototype (Loans lists, LAN page, Waiver flows): <a href="lms.html">open lms.html</a>.</p><p class="lms-lockbar"><button type="button" onclick="LAMF_ACCESS.logout();location.replace('index.html')">🔒 Sign out</button> Signs you out of the site in this tab – the mail ID and secret code are asked again (DISC-529).</p>
 <script src="assets/review.js"></script>
 <script src="assets/colresize.js"></script>
 </body>

diff --git a/lamf-journey/lms-app/app.css b/lamf-journey/lms-app/app.css
@@ -467,3 +467,29 @@ button.cp-next { font: inherit; font-weight: 700; font-size: 16px; cursor: point
 .rk-no { color: #0a8a3a; font-weight: 700; }
 .ln-empty { padding: 80px 0; }
 .ln-empty[hidden], .ln-wrap[hidden], .ln-pg[hidden] { display: none; }
+/* DISC-539: loan page (LAN Number …) – sticky header and tabs, 4-column detail cards, fee / GST tooltip */
+.lv-top { position: sticky; top: 0; z-index: 7; background: #fff; margin: -28px -4px 24px; padding: 20px 4px 0; }
+.lv-h { display: flex; align-items: center; gap: 12px; flex-wrap: wrap; }
+.lv-h h1 { font-size: 20px; font-weight: 600; margin: 0 0 0 10px; }
+.lv-back { display: flex; color: #111; }
+.lv-back svg, .lv-i svg { width: 22px; height: 22px; fill: none; stroke: currentColor; stroke-width: 1.7; stroke-linecap: round; stroke-linejoin: round; }
+.lv-rk { background: #f1f1f2; border-radius: 10px; padding: 2px 8px; font-size: 12px; font-weight: 500; line-height: 16px; }
+.lv-lk { color: var(--blue); font-weight: 600; font-size: 15px; text-decoration: none; }
+.lv-lk:hover { text-decoration: underline; }
+.lv-sp { flex: 1; }
+.lv-tabs { margin: 22px 0 0; overflow-x: auto; }
+.lv-tabs button { white-space: nowrap; font-size: 13.5px; padding: 12px 12px 14px; }
+.lv-dd { top: 36px; }
+.lv-dd button:disabled { color: #b4b8c0; cursor: default; background: none; }
+.lv-g { display: grid; grid-template-columns: repeat(4, minmax(0, 1fr)); gap: 26px 16px; }
+.lv-g span { display: block; font-size: 13.5px; color: #6b7080; margin-bottom: 6px; }
+.lv-g b { display: flex; align-items: center; gap: 6px; font-size: 14.5px; font-weight: 500; color: #111; }
+.lv-g b.g { color: #0a8a3a; }
+.lv-g b.lv-ln { margin-bottom: 5px; }
+.lv-a { color: var(--blue); text-decoration: underline; }
+.lv-warn { width: 15px; height: 15px; fill: #0a7a32; }
+.lv-i { display: inline-flex; border: 0; background: none; padding: 0; cursor: pointer; color: #111; }
+.lv-i svg { width: 15px; height: 15px; stroke-width: 1.8; }
+.lv-tip { position: absolute; z-index: 9; background: #fff; border: 1px solid #ececef; border-radius: 6px; box-shadow: 0 4px 14px rgba(0, 0, 0, .12); padding: 10px 14px; font-size: 14px; font-weight: 500; white-space: nowrap; }
+.lv-tip[hidden] { display: none; }
+@media (max-width: 900px) { .lv-g { grid-template-columns: repeat(2, minmax(0, 1fr)); } }

diff --git a/lamf-journey/tools/lms_prd_shots.js b/lamf-journey/tools/lms_prd_shots.js
@@ -112,6 +112,11 @@ const PROD = { code: 'LAMF20261103', name: 'TEST Product SCCL', desc: 'This is T
   await go('loans-active.html'); await shot('l17-active'); await el('.sb-grp', 'l17-menu'); await el('#ln-lsp', 'l17-lsp'); await el('.ln-chips', 'l17-chips'); await el('.ln-tb thead', 'l17-head');
   await p.click('#ln-lsp-b'); await area('#ln-lsp', 'l17-lsp-open', -8, -8, 280, 340); await p.keyboard.press('Escape');
   await p.click('.ln-chips button[data-t="1"]'); await shot('l17-shortfall');
+  await go('loan-view.html?lan=SCCLMF20261100043'); await shot('l18-loan'); await el('.lv-h', 'l18-head'); await el('#lv-tabs', 'l18-tabs');
+  await area('#lv-menu', 'l18-menu-closed', -300, -10, 340, 50); await el('#lv-loan', 'l18-loan-card');
+  await el('#lv-loan > div:nth-child(14)', 'l18-pf'); await p.hover('#lv-loan .lv-i'); await area('#lv-loan .lv-i', 'l18-tip', -130, -40, 360, 110);
+  await el('#lv-coll', 'l18-coll'); await el('#lv-cli', 'l18-client'); await el('#lv-kfs', 'l18-kfs');
+  await p.mouse.move(5, 5); await p.click('#lv-menu'); await area('#lv-menu', 'l18-menu', -240, -10, 280, 440);
   await b.close();
   console.log('LMS PRD shots:', fs.readdirSync(OUT).length);
 })();

diff --git a/lamf-journey/lms-app/approvals.html b/lamf-journey/lms-app/approvals.html
@@ -10,7 +10,7 @@
 <link rel="preconnect" href="https://fonts.gstatic.com" crossorigin>
 <link href="https://fonts.googleapis.com/css2?family=Figtree:wght@400;500;600;700;800;900&display=swap" rel="stylesheet">
 <link rel="stylesheet" href="lms.css?v=9">
-<link rel="stylesheet" href="app.css?v=39">
+<link rel="stylesheet" href="app.css?v=40">
 </head>
 <body class="app">
 <aside class="sb" id="sb">

diff --git a/lamf-journey/lms-app/create-product.html b/lamf-journey/lms-app/create-product.html
@@ -10,7 +10,7 @@
 <link rel="preconnect" href="https://fonts.gstatic.com" crossorigin>
 <link href="https://fonts.googleapis.com/css2?family=Figtree:wght@400;500;600;700;800;900&display=swap" rel="stylesheet">
 <link rel="stylesheet" href="lms.css?v=9">
-<link rel="stylesheet" href="app.css?v=39">
+<link rel="stylesheet" href="app.css?v=40">
 </head>
 <body class="app">
 <aside class="sb" id="sb">

diff --git a/lamf-journey/lms-app/dashboard.html b/lamf-journey/lms-app/dashboard.html
@@ -10,7 +10,7 @@
 <link rel="preconnect" href="https://fonts.gstatic.com" crossorigin>
 <link href="https://fonts.googleapis.com/css2?family=Figtree:wght@400;500;600;700;800;900&display=swap" rel="stylesheet">
 <link rel="stylesheet" href="lms.css?v=9">
-<link rel="stylesheet" href="app.css?v=39">
+<link rel="stylesheet" href="app.css?v=40">
 </head>
 <body class="app">
 <aside class="sb" id="sb">

diff --git a/lamf-journey/lms-app/product-view.html b/lamf-journey/lms-app/product-view.html
@@ -10,7 +10,7 @@
 <link rel="preconnect" href="https://fonts.gstatic.com" crossorigin>
 <link href="https://fonts.googleapis.com/css2?family=Figtree:wght@400;500;600;700;800;900&display=swap" rel="stylesheet">
 <link rel="stylesheet" href="lms.css?v=9">
-<link rel="stylesheet" href="app.css?v=39">
+<link rel="stylesheet" href="app.css?v=40">
 </head>
 <body class="app">
 <aside class="sb" id="sb">

diff --git a/lamf-journey/lms-app/products.html b/lamf-journey/lms-app/products.html
@@ -10,7 +10,7 @@
 <link rel="preconnect" href="https://fonts.gstatic.com" crossorigin>
 <link href="https://fonts.googleapis.com/css2?family=Figtree:wght@400;500;600;700;800;900&display=swap" rel="stylesheet">
 <link rel="stylesheet" href="lms.css?v=9">
-<link rel="stylesheet" href="app.css?v=39">
+<link rel="stylesheet" href="app.css?v=40">
 </head>
 <body class="app">
 <aside class="sb" id="sb">
